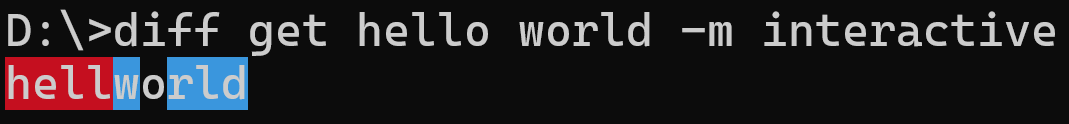
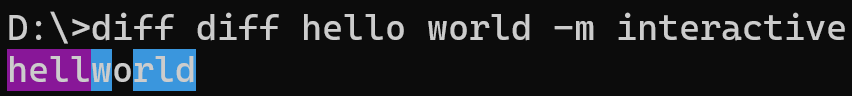
as

Changed region(s): [[0.0, 0.0625, 1.0, 0.9688]]

diff --git a/README.md b/README.md
@@ -31,8 +31,8 @@ A simple command-line tool for computing diffs between strings, files, or progra
 
 ### Basic Commands
 
-- **Get**: Compute the diff between two inputs.
-- **Example**: Generate example test cases in TOML format.
+- **Diff**: Compute the diff between two inputs.
+- **Example**: Generate example test cases in YAML format.
 
 Run `diff --help` for detailed options.
 
@@ -45,7 +45,7 @@ Run `diff --help` for detailed options.
 Compare two directly entered strings. The differences are highlighted in color.
 
 ```bash
-diff get string1 string2 -m interactive
+diff diff string1 string2 -m interactive
 ```
 
 ### Batch Mode
@@ -53,7 +53,7 @@ diff get string1 string2 -m interactive
 Compare the contents of two files. Differences are shown with colored highlights.
 
 ```bash
-diff get file1.txt file2.txt -m batch
+diff diff file1.txt file2.txt -m batch
 ```
 
 ### Program Mode
@@ -61,20 +61,18 @@ diff get file1.txt file2.txt -m batch
 Run a program with test cases and compare its output. Differences between expected and actual outputs are displayed in color.
 
 ```bash
-diff get my_program tests.toml -m program
+diff diff my_program tests.yaml -m program
 ```
 
 ---
 
 ## Generating Test Cases
 
-Generate example test cases in TOML format.
+Generate 3 example test cases in YAML format.
 
 ```bash
-diff example --count 5 --path tests.toml
+diff example
 ```
-
-If no path is specified, the test cases will be printed to the console.
 
 ---
 
